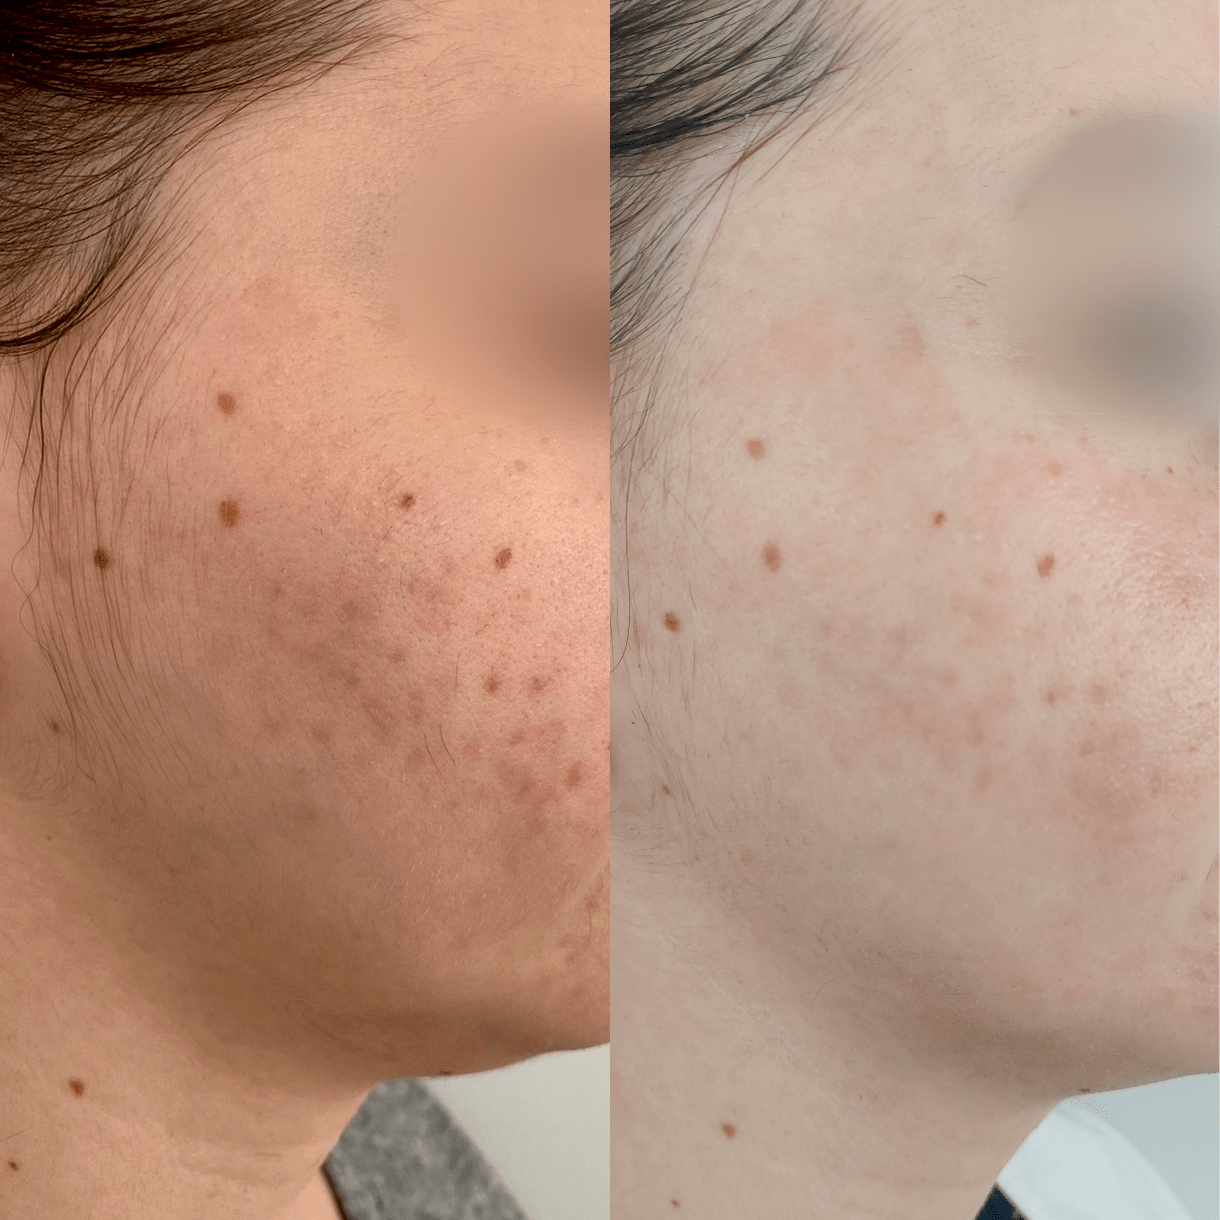
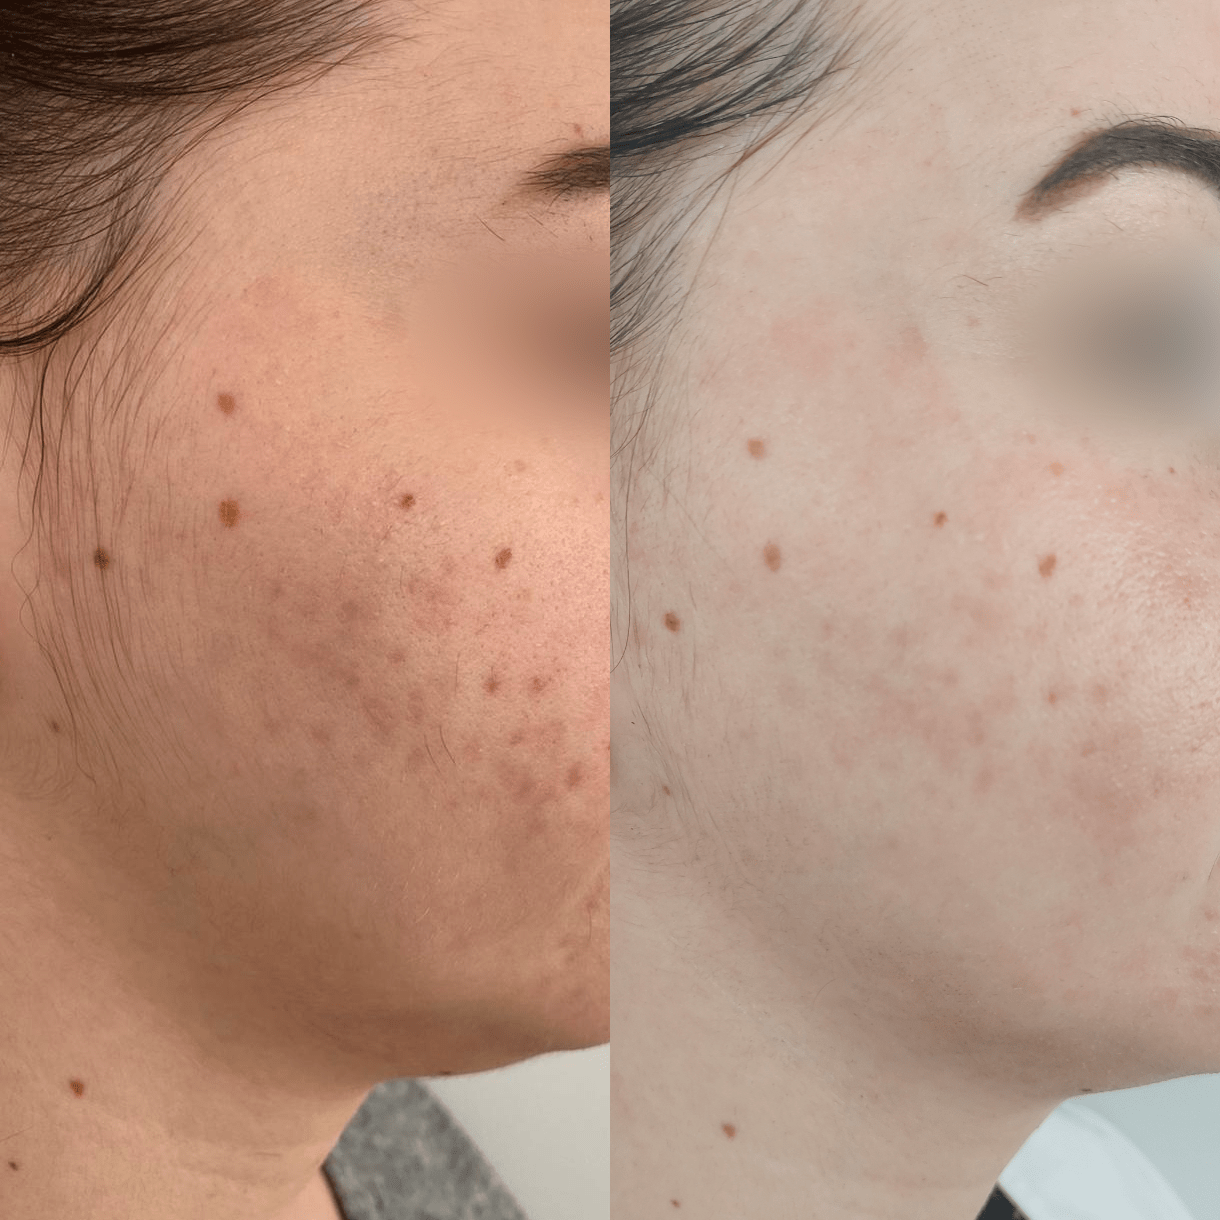
Updating the effects of the treatment

diff --git a/app/src/views/Root.js b/app/src/views/Root.js
@@ -7,9 +7,18 @@ import MainTemplate from '../templates/MainTemplate';
 import ScrollArrow from '../components/ScrollArrow';
 import HeaderSection from '../sections/HeaderSection';
 import FooterSection from '../sections/FooterSection';
+
+
+// HOME
 import HomeView from './HomeView';
+
+
+// KLINIKA
 import ClinicView from './ClinicView';
 import ClinicRegulationPartial from './partials/clinic/ClinicRegulationPartial';
+
+
+// SPECJALIZACJE
 import ServicesView from './ServicesView';
 import ServicesDermatologyPartial from './partials/services/ServicesDermatologyPartial';
 import ServicesAestheticMedicinePartial from './partials/services/ServicesAestheticMedicinePartial';
@@ -25,14 +34,18 @@ import ServicesVascularSurgeryPartial from './partials/services/ServicesVascular
 import ServicesClinicalDietitianPartial from './partials/services/ServicesClinicalDietitianPartial';
 import ServicesRheumatologyPartial from './partials/services/ServicesRheumatologyPartial';
 import ServicesCardiologyPartial from './partials/services/ServicesCardiologyPartial';
+
+
 // ZABIEGI
 import TreatmentView from './TreatmentView';
 import TreatmentListPartial from './partials/treatment/TreatmentListPartial';
-// DERMATOLOGIA
+
+// dermatologia
 import TreatmentBadanieZnamionBarwnikowychPartial from './partials/treatment/dermatology/TreatmentBadanieZnamionBarwnikowychPartial';
 import TreatmentFototerapiaChorobSkoryPartial from './partials/treatment/dermatology/TreatmentFototerapiaChorobSkoryPartial';
 import TreatmentUsuniecieZmianSkornychElektrochirurgicznePartial from './partials/treatment/dermatology/TreatmentUsuniecieZmianSkornychElektrochirurgicznePartial';
-// MEDYCYNA ESTETYCZNA
+
+// medycyna estetyczna
 import TreatmentModelowanieUstPartial from './partials/treatment/aestheticMedicine/TreatmentModelowanieUstPartial';
 import TreatmentToksynaBotulinowaPartial from './partials/treatment/aestheticMedicine/TreatmentToksynaBotulinowaPartial';
 import TreatmentStymulatoryTkankowePartial from './partials/treatment/aestheticMedicine/TreatmentStymulatoryTkankowePartial';
@@ -42,26 +55,35 @@ import TreatmentNiciRewitalizujaceILiftingujacePartial from './partials/treatmen
 import TreatmentMezoterapiaIglowaPartial from './partials/treatment/aestheticMedicine/TreatmentMezoterapiaIglowaPartial';
 import TreatmentZamykanieNaczynekILikwidacjaPrzebarwienPartial from './partials/treatment/aestheticMedicine/TreatmentZamykanieNaczynekILikwidacjaPrzebarwienPartial';
 import TreatmentSonoQueenTechnologiaHifuPartial from './partials/treatment/aestheticMedicine/TreatmentSonoQueenTechnologiaHifuPartial';
-// KOSMETOLOGIA
+
+// kosmetologia
 import TreatmentPeelingMedycznyPartial from './partials/treatment/cosmetology/TreatmentPeelingMedycznyPartial';
 import TreatmentEpilacjaLaserowaPartial from './partials/treatment/cosmetology/TreatmentEpilacjaLaserowaPartial';
 import TreatmentMasazProzniowyPartial from './partials/treatment/cosmetology/TreatmentMasazProzniowyPartial';
 import TreatmentUltradzwiekiIFalaRadiowaPartial from './partials/treatment/cosmetology/TreatmentUltradzwiekiIFalaRadiowaPartial';
-// FIZJOTERAPIA
+
+// fizjoterapia
 import TreatmentRehabilitacjaPartial from './partials/treatment/physioterapy/TreatmentRehabilitacjaPartial';
 import TreatmentMasazPartial from './partials/treatment/physioterapy/TreatmentMasazPartial';
 import TreatmentKinesiotapingPartial from './partials/treatment/physioterapy/TreatmentKinesiotapingPartial';
-// CHIRURGIA PLASTYCZNA
+
+// chirurgia plastyczna
 import TreatmentPlastykaPowiekPartial from './partials/treatment/cosmeticSurgery/TreatmentPlastykaPowiekPartial';
-// ALERGOLOGIA
+
+// alergologia
 import TreatmentTestySkornePartial from './partials/treatment/allergology/TreatmentTestySkornePartial';
 import TreatmentPlatkoweTestyKontaktowePartial from './partials/treatment/allergology/TreatmentPlatkoweTestyKontaktowePartial';
 import TreatmentOdczulaniePartial from './partials/treatment/allergology/TreatmentOdczulaniePartial';
-// CHIRURGIA NACZYNIOWA
+
+// chirurgia naczyniowa
 import TreatmentSkleroterapiaPartial from './partials/treatment/vascularSurgery/TreatmentSkleroterapiaPartial';
 import TreatmentLaseroweUsuwanieZylakowPartial from './partials/treatment/vascularSurgery/TreatmentLaseroweUsuwanieZylakowPartial';
-// KARDIOLOGIA
+
+// kardiologia
 import TreatmentEchoSercaPartial from './partials/treatment/cardiology/TreatmentEchoSercaPartial';
+
+
+// CENNIK
 import PricesView from './PricesView';
 import PricesDermatologyPartial from './partials/prices/PricesDermatologyPartial';
 import PricesAestheticMedicinePartial from './partials/prices/PricesAestheticMedicinePartial';
@@ -77,18 +99,22 @@ import PricesVascularSurgeryPartial from './partials/prices/PricesVascularSurger
 import PricesClinicalDietitianPartial from './partials/prices/PricesClinicalDietitianPartial';
 import PricesRheumatologyPartial from './partials/prices/PricesRheumatologyPartial';
 import PricesCardiologyPartial from './partials/prices/PricesCardiologyPartial';
+
+
+// PROMOCJE
 import SpecialOfferView from './SpecialOfferView';
 
 
+// SPECJALIŚCI
 // import TeamView from './TeamView';
 // import TeamSpecializationPartial from './partials/team/TeamSpecializationPartial';
 // import TeamSpecialistPartial from './partials/team/TeamSpecialistPartial';
-
 import TeamView2 from './TeamView2';
 import SpecialistsListPartial from './partials/team/SpecialistsListPartial';
 import SpecialistsDetailsPartial from './partials/team/SpecialistsDetailsPartial';
 
 
+// TECHNOLOGIA
 // import TechnologyView from './TechnologyView';
 // import TechnologyVectusPartial from './partials/technology/TechnologyVectusPartial';
 // import TechnologyAlmaHarmonyXlProPartial from './partials/technology/TechnologyAlmaHarmonyXlProPartial';
@@ -102,7 +128,12 @@ import SpecialistsDetailsPartial from './partials/team/SpecialistsDetailsPartial
 // import TechnologySonoQueenPartial from './partials/technology/TechnologySonoQueenPartial';
 // import TechnologyDermalight500Partial from './partials/technology/TechnologyDermalight500Partial';
 // import TechnologyDermalight1000UvaUvb311nmPartial from './partials/technology/TechnologyDermalight1000UvaUvb311nmPartial';
+
+
+// KONTAKT
 import ContactView from './ContactView';
+
+
 import Modal from '../components/Modal';
 import Toast from '../components/Toast';
 
@@ -112,11 +143,18 @@ const Root = () => (
             <HeaderSection />
             <main>
                 <Routes>
+                    {/* HOME */}
                     <Route exact path='/' element={<HomeView />} />
                     <Route exact path='/drninawisniewska/' element={<HomeView main />} />
                     <Route exact path='https://drninawisniewska.pl' element={<HomeView />} />
+
+
+                    {/* KLINIKA */}
                     <Route path='/clinic' element={<ClinicView />} />
                     <Route path='/clinic/regulation' element={<ClinicRegulationPartial />} />
+
+
+                    {/* SPECJALIZACJE */}
                     <Route exact path='/services' element={<ServicesView />} />
                     <Route path='/services/dermatology' element={<ServicesDermatologyPartial />} />
                     <Route path='/services/aesthetic-medicine' element={<ServicesAestheticMedicinePartial />} />
@@ -132,14 +170,19 @@ const Root = () => (
                     <Route path='/services/clinical-dietitian' element={<ServicesClinicalDietitianPartial />} />
                     <Route path='/services/rheumatology' element={<ServicesRheumatologyPartial />} />
                     <Route path='/services/cardiology' element={<ServicesCardiologyPartial />} />
+
+
+                    {/* ZABIEGI */}
                     <Route path='/treatment' element={<TreatmentView />}>
                         <Route path=':specialization' element={<TreatmentListPartial />} />
                     </Route>
-                    {/* DERMATOLOGIA */}
+
+                    {/* dermatologia */}
                     <Route path='/treatment/dermatology/badanie-znamion-barwnikowych' element={<TreatmentBadanieZnamionBarwnikowychPartial />} />
                     <Route path='/treatment/dermatology/fototerapia-chorob-skory' element={<TreatmentFototerapiaChorobSkoryPartial />} />
                     <Route path='/treatment/dermatology/usuniecie-zmian-skornych-elektrochirurgiczne' element={<TreatmentUsuniecieZmianSkornychElektrochirurgicznePartial />} />
-                    {/* MEDYCYNA ESTETYCZNA */}
+
+                    {/* medycyna estetyczna */}
                     <Route path='/treatment/aesthetic-medicine/modelowanie-ust' element={<TreatmentModelowanieUstPartial />} />
                     <Route path='/treatment/aesthetic-medicine/toksyna-botulinowa' element={<TreatmentToksynaBotulinowaPartial />} />
                     <Route path='/treatment/aesthetic-medicine/stymulatory-tkankowe' element={<TreatmentStymulatoryTkankowePartial />} />
@@ -149,26 +192,35 @@ const Root = () => (
                     <Route path='/treatment/aesthetic-medicine/mezoterapia-iglowa' element={<TreatmentMezoterapiaIglowaPartial />} />
                     <Route path='/treatment/aesthetic-medicine/zamykanie-naczynek-i-likwidacja-przebarwien' element={<TreatmentZamykanieNaczynekILikwidacjaPrzebarwienPartial />} />
                     <Route path='/treatment/aesthetic-medicine/sonoqueen-technologia-hifu' element={<TreatmentSonoQueenTechnologiaHifuPartial />} />
-                    {/* KOSMETOLOGIA */}
+
+                    {/* kosmetologia */}
                     <Route path='/treatment/cosmetology/peeling-medyczny' element={<TreatmentPeelingMedycznyPartial />} />
                     <Route path='/treatment/cosmetology/epilacja-laserowa' element={<TreatmentEpilacjaLaserowaPartial />} />
                     <Route path='/treatment/cosmetology/masaz-prozniowy' element={<TreatmentMasazProzniowyPartial />} />
                     <Route path='/treatment/cosmetology/ultradzwieki-i-fala-radiowa' element={<TreatmentUltradzwiekiIFalaRadiowaPartial />} />
-                    {/* FIZJOTERAPIA */}
+
+                    {/* fizjoterapia */}
                     <Route path='/treatment/physioterapy/rehabilitacja' element={<TreatmentRehabilitacjaPartial />} />
                     <Route path='/treatment/physioterapy/masaz' element={<TreatmentMasazPartial />} />
                     <Route path='/treatment/physioterapy/kinesiotaping' element={<TreatmentKinesiotapingPartial />} />
-                    {/* CIRURGIA PLASTYCZNA */}
+
+                    {/* chirurgia plastyczna */}
                     <Route path='/treatment/cosmetic-surgery/plastyka-powiek' element={<TreatmentPlastykaPowiekPartial />} />
-                    {/* ALERGOLOGIA */}
+
+                    {/* alergologia */}
                     <Route path='/treatment/allergology/testy-skorne' element={<TreatmentTestySkornePartial />} />
                     <Route path='/treatment/allergology/platkowe-testy-kontaktowe' element={<TreatmentPlatkoweTestyKontaktowePartial />} />
                     <Route path='/treatment/allergology/odczulanie' element={<TreatmentOdczulaniePartial />} />
-                    {/* CHIRURGIA NACZYNIOWA */}
+
+                    {/* chirurgia naczyniowa */}
                     <Route path='/treatment/vascular-surgery/skleroterapia' element={<TreatmentSkleroterapiaPartial />} />
                     <Route path='/treatment/vascular-surgery/laserowe-usuwanie-zylakow' element={<TreatmentLaseroweUsuwanieZylakowPartial />} />
-                    {/* KARDIOLOGIA */}
+
+                    {/* kardiologia */}
                     <Route path='/treatment/cardiology/echo-serca' element={<TreatmentEchoSercaPartial />} />
+
+
+                    {/* CENNIK */}
                     <Route path='/prices' element={<PricesView />}>
                         <Route path='/prices' element={<PricesDermatologyPartial />} />
                         <Route path='/prices/aesthetic-medicine' element={<PricesAestheticMedicinePartial />} />
@@ -185,17 +237,24 @@ const Root = () => (
                         <Route path='/prices/rheumatology' element={<PricesRheumatologyPartial />} />
                         <Route path='/prices/cardiology' element={<PricesCardiologyPartial />} />
                     </Route>
+
+
+                    {/* PROMOCJE */}
                     <Route path='/special-offer' element={<SpecialOfferView />} />
                     {/* <Route path='/team' element={<TeamView />}>
                         <Route path=':specialization' element={<TeamSpecializationPartial />} />
                     </Route>
                     <Route path='team/:specialization/:specialist' element={<TeamSpecialistPartial />} /> */}
 
+
+                    {/* SPECJALIŚCI */}
                     <Route path='/team' element={<TeamView2 />}>
                         <Route path=':specialization' element={<SpecialistsListPartial />} />
                     </Route>
                     <Route path='team/:specialization/:specialist' element={<SpecialistsDetailsPartial />} />
 
+
+                    {/* TECHNOLOGIA */}
                     {/* <Route path='/technology' element={<TechnologyView />} />
                     <Route path='/technology/vectus' element={<TechnologyVectusPartial />} />
                     <Route path='/technology/alma-harmony-xl-pro' element={<TechnologyAlmaHarmonyXlProPartial />} />
@@ -209,6 +268,9 @@ const Root = () => (
                     <Route path='/technology/sono-queen' element={<TechnologySonoQueenPartial />} />
                     <Route path='/technology/dermalight-500' element={<TechnologyDermalight500Partial />} />
                     <Route path='/technology/dermalight-1000-uva-uvb-311nm' element={<TechnologyDermalight1000UvaUvb311nmPartial />} /> */}
+
+
+                    {/* KONTAKT */}
                     <Route path='/contact' element={<ContactView />} />
                 </Routes>
             </main>

diff --git a/app/src/components/Page.js b/app/src/components/Page.js
@@ -10,6 +10,9 @@ const PageTitle = ({ children }) => {
             // HOME
             case '/':
                 return companyName;
+            // gh-pages
+            case '/drninawisniewska/':
+                return companyName;
 
 
             // KLINIKA
@@ -177,6 +180,8 @@ const PageTitle = ({ children }) => {
             // ZESPÓŁ
             case '/team':
                 return `Specjaliści - ${companyName}`;
+
+            // dermatologia
             case '/team/dermatology':
                 return `Specjaliści - ${companyName}`;
             case '/team/dermatology/nina-wisniewska':
@@ -193,6 +198,8 @@ const PageTitle = ({ children }) => {
                 return `Katarzyna Zbrońska - ${companyName}`;
             case '/team/dermatology/katarzyna-rychlik':
                 return `Katarzyna Rychlik - ${companyName}`;
+
+            // medycyna estetyczna
             case '/team/aesthetic-medicine':
                 return `Specjaliści - ${companyName}`;
             case '/team/aesthetic-medicine/nina-wisniewska':
@@ -205,54 +212,78 @@ const PageTitle = ({ children }) => {
                 return `Paulina Tatara - ${companyName}`;
             case '/team/aesthetic-medicine/olga-lenartowicz-warakomska':
                 return `Olga Lenartowicz-Warakomska - ${companyName}`;
+
+            // kosmetologia
             case '/team/cosmetology':
                 return `Specjaliści - ${companyName}`;
             case '/team/cosmetology/paulina-budna':
                 return `Paulina Budna - ${companyName}`;
             case '/team/cosmetology/aleksandra-gorczynska':
                 return `Aleksandra Górczyńska - ${companyName}`;
+
+            // fizjoterapia
             case '/team/physioterapy':
                 return `Specjaliści - ${companyName}`;
             case '/team/physioterapy/milena-juzwiak':
                 return `Milena Juźwiak - ${companyName}`;
+
+            // chirurgia plastyczna
             case '/team/cosmetic-surgery':
                 return `Specjaliści - ${companyName}`;
             case '/team/cosmetic-surgery/konrad-kochan':
                 return `Konrad Kochan - ${companyName}`;
+
+            // alergologia
             case '/team/allergology':
                 return `Specjaliści - ${companyName}`;
             case '/team/allergology/tomasz-matuszewski':
                 return `Tomasz Matuszewski - ${companyName}`;
+
+            // usg
             case '/team/usg':
                 return `Specjaliści - ${companyName}`;
             case '/team/usg/justyna-filipek':
                 return `Justyna Filipek - ${companyName}`;
             case '/team/usg/patryk-krokwinski':
                 return `Patryk Krokwiński - ${companyName}`;
+
+            // endokrynologia
             case '/team/endocrinology':
                 return `Specjaliści - ${companyName}`;
             case '/team/endocrinology/justyna-filipek':
                 return `Justyna Filipek - ${companyName}`;
+
+            // ginekologia
             case '/team/gynecology':
                 return `Specjaliści - ${companyName}`;
             case '/team/gynecology/justyna-filipek':
                 return `Justyna Filipek - ${companyName}`;
+
+            // ortopedia
             case '/team/orthopedics':
                 return `Specjaliści - ${companyName}`;
             case '/team/orthopedics/wojciech-kaszewski':
                 return `Wojciech Kaszewski - ${companyName}`;
+
+            // chirurgia naczyniowa
             case '/team/vascular-surgery':
                 return `Specjaliści - ${companyName}`;
             case '/team/vascular-surgery/kamil-stepkowski':
                 return `Kamil Stępkowski - ${companyName}`;
+
+            // dietetyka kliniczna
             case '/team/clinical-dietitian':
                 return `Specjaliści - ${companyName}`;
             case '/team/clinical-dietitian/joanna-ojrzenska':
                 return `Joanna Ojrzeńska - ${companyName}`;
+
+            // reumatologia
             case '/team/rheumatology':
                 return `Specjaliści - ${companyName}`;
             case '/team/rheumatology/agata-skwerek-szewczyk':
                 return `Agata Skwerek Szewczyk - ${companyName}`;
+
+            // kardiologia
             case '/team/cardiology':
                 return `Specjaliści - ${companyName}`;
             case '/team/cardiology/michal-radzio':

diff --git a/app/src/data/treatment.js b/app/src/data/treatment.js
@@ -25,6 +25,8 @@ import osoczeBogatopłytkoweImage0 from '../assets/treatment/aestheticMedicine/o
     // efekty
     import effectsLaserFrakcyjny0Lg from '../assets/treatment/aestheticMedicine/laserFrakcyjny/effects/effectsLaserFrakcyjny0Lg.png';
     import effectsLaserFrakcyjny0Sm from '../assets/treatment/aestheticMedicine/laserFrakcyjny/effects/effectsLaserFrakcyjny0Sm.png';
+    import effectsLaserFrakcyjny1Lg from '../assets/treatment/aestheticMedicine/laserFrakcyjny/effects/effectsLaserFrakcyjny1Lg.png';
+    import effectsLaserFrakcyjny1Sm from '../assets/treatment/aestheticMedicine/laserFrakcyjny/effects/effectsLaserFrakcyjny1Sm.png';
 // import niciRewitalizujaceILiftingujaceImage0 from '../assets/treatment/aestheticMedicine/niciRewitalizujaceILiftingujace/niciRewitalizujaceILiftingujace0.jpg';
 import mezoterapiaIglowaImage0 from '../assets/treatment/aestheticMedicine/mezoterapiaIglowa/mezoterapiaIglowa0.jpg';
 import zamykanieNaczynekILikwidacjaPrzebarwienImage0 from '../assets/treatment/aestheticMedicine/zamykanieNaczynekILikwidacjaPrzebarwien/zamykanieNaczynekILikwidacjaPrzebarwien0.jpg';
@@ -365,6 +367,18 @@ export const laserFrakcyjny = {
             },
             thumbnail: {
                 src: effectsLaserFrakcyjny0Sm
+            }
+        },
+        {
+            alt: 'Efekt zabiegu lasera frakcyjnego',
+            description: 'Efekt zabiegu lasera frakcyjnego',
+            original: {
+                src: effectsLaserFrakcyjny1Lg,
+                width: 1220,
+                height: 1220
+            },
+            thumbnail: {
+                src: effectsLaserFrakcyjny1Sm
             }
         }
     ],
